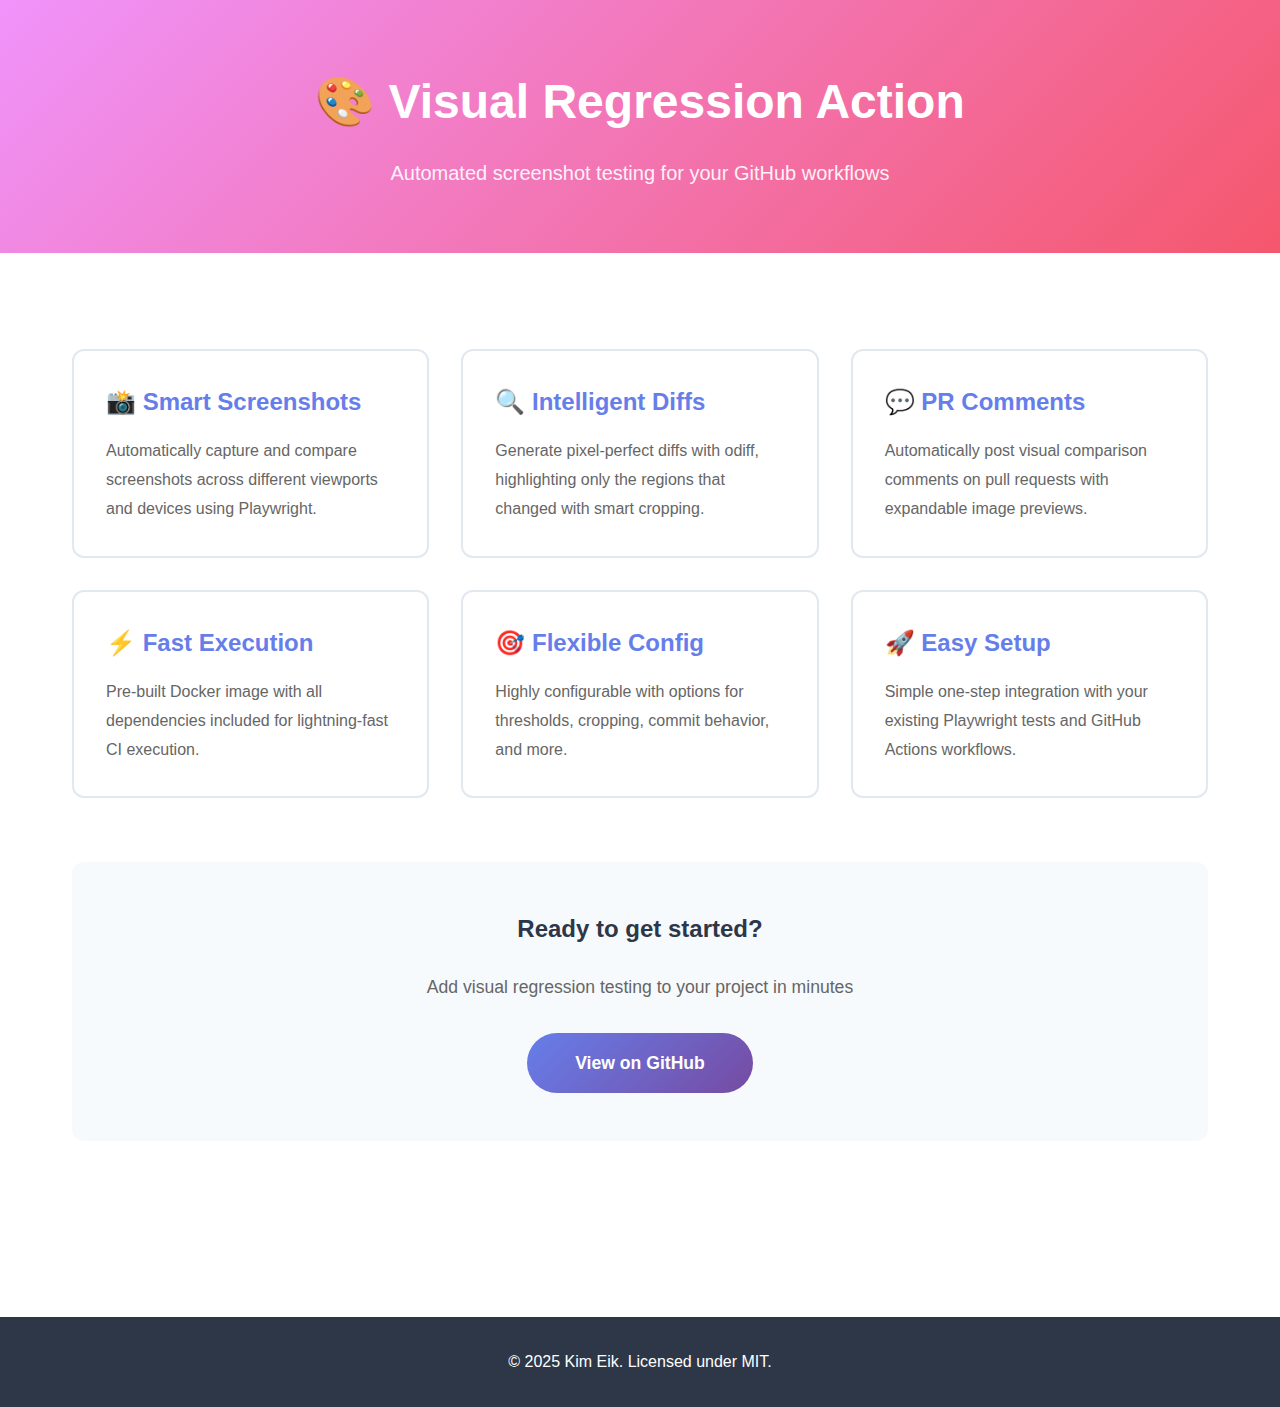
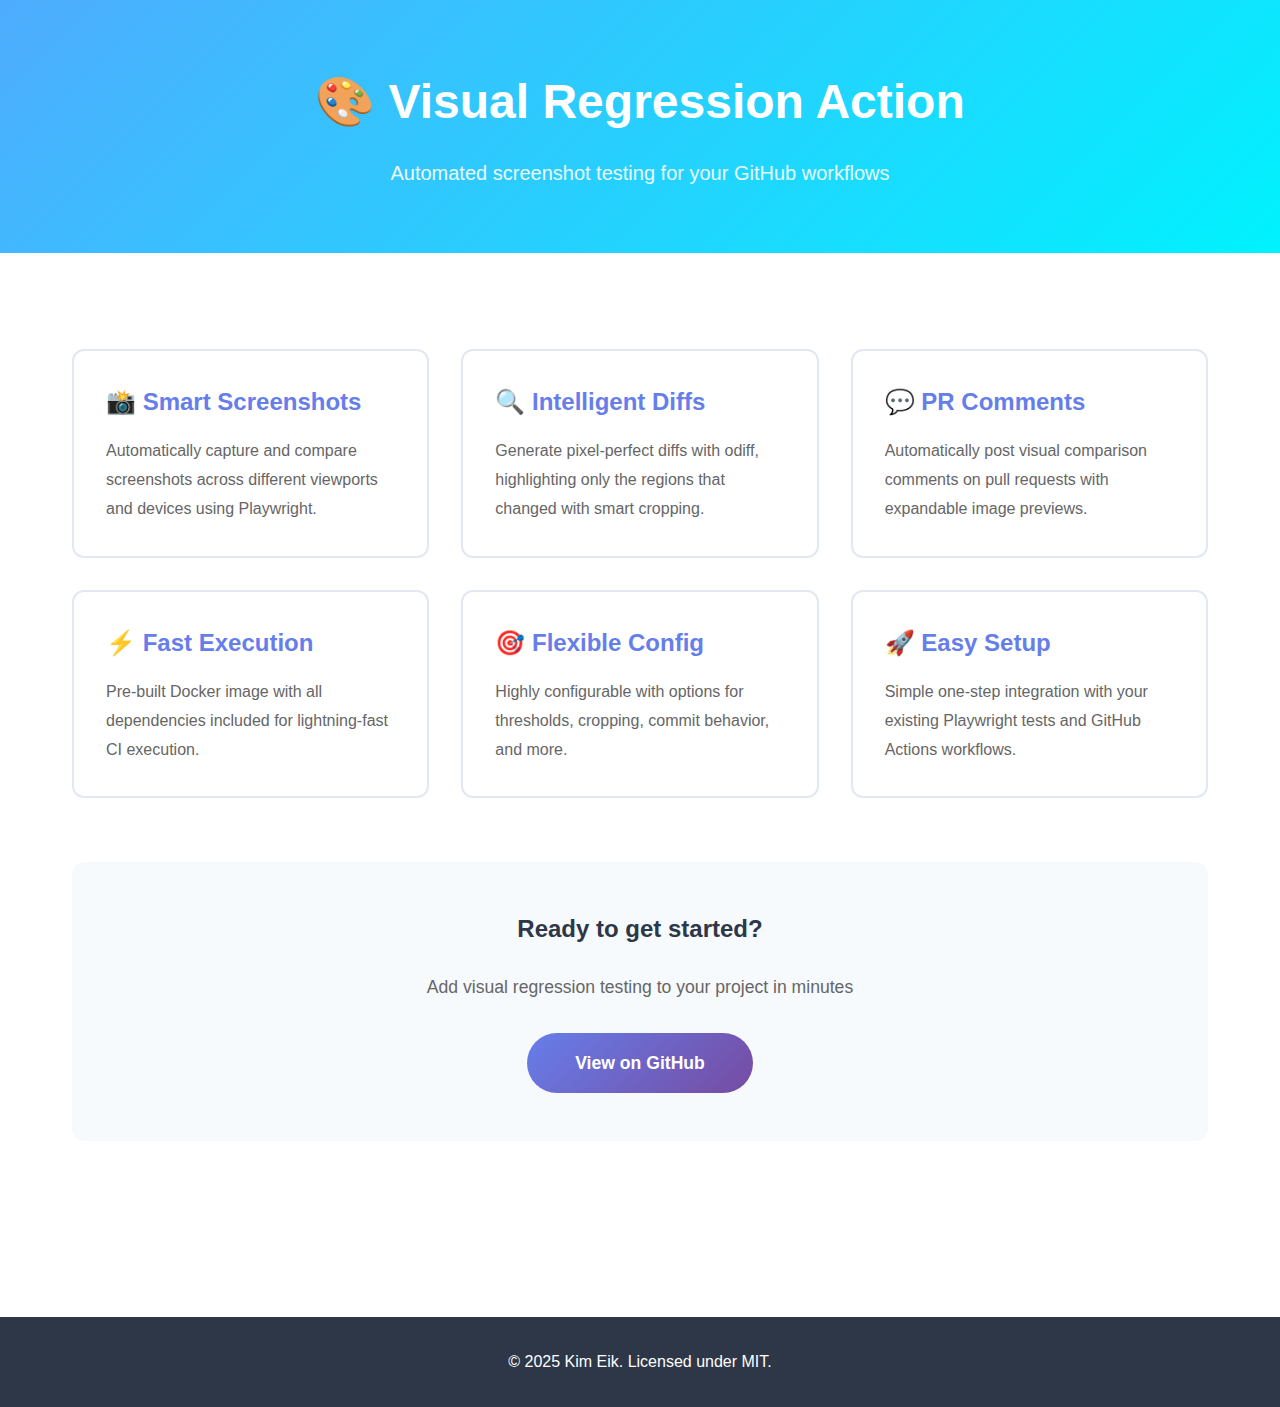
feat: update header to blue gradient

Changed region(s): [[0.0, 0.0, 1.0, 0.1834]]

diff --git a/example/index.html b/example/index.html
@@ -18,7 +18,7 @@
         }
 
         header {
-            background: linear-gradient(135deg, #f093fb 0%, #f5576c 100%);
+            background: linear-gradient(135deg, #4facfe 0%, #00f2fe 100%);
             color: white;
             padding: 4rem 2rem;
             text-align: center;
